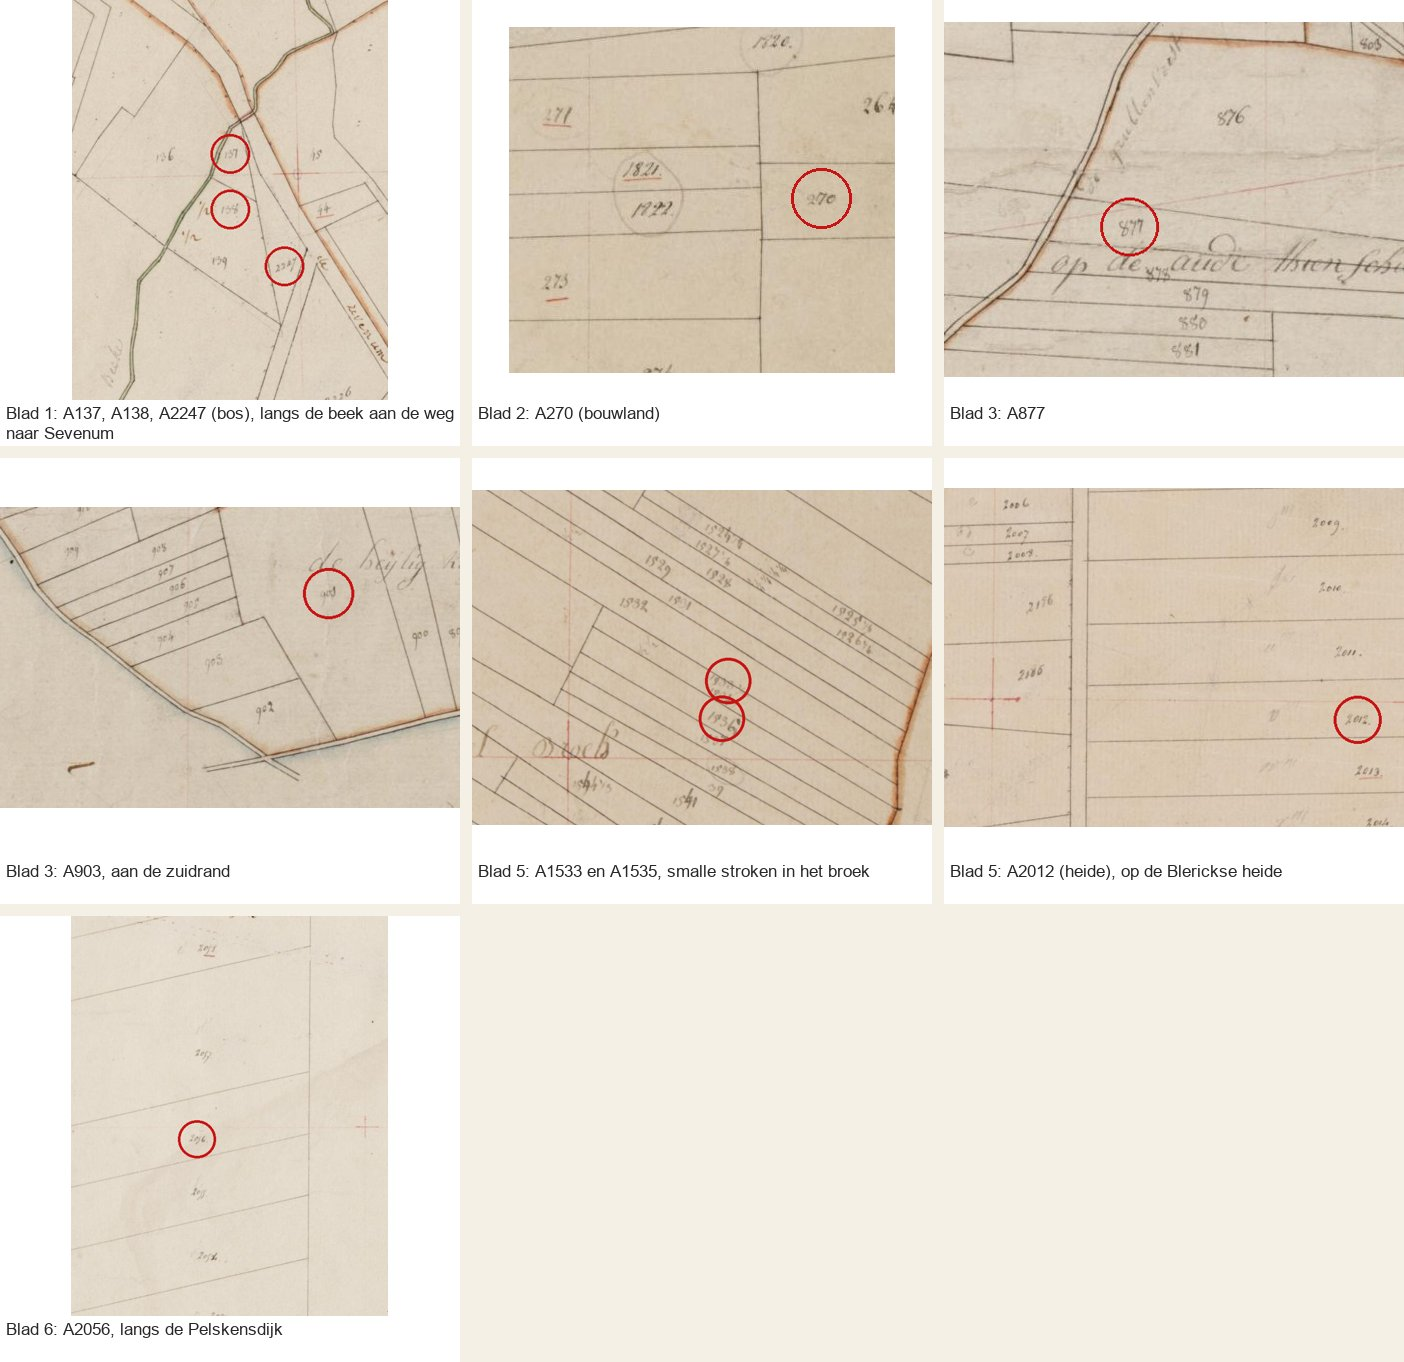
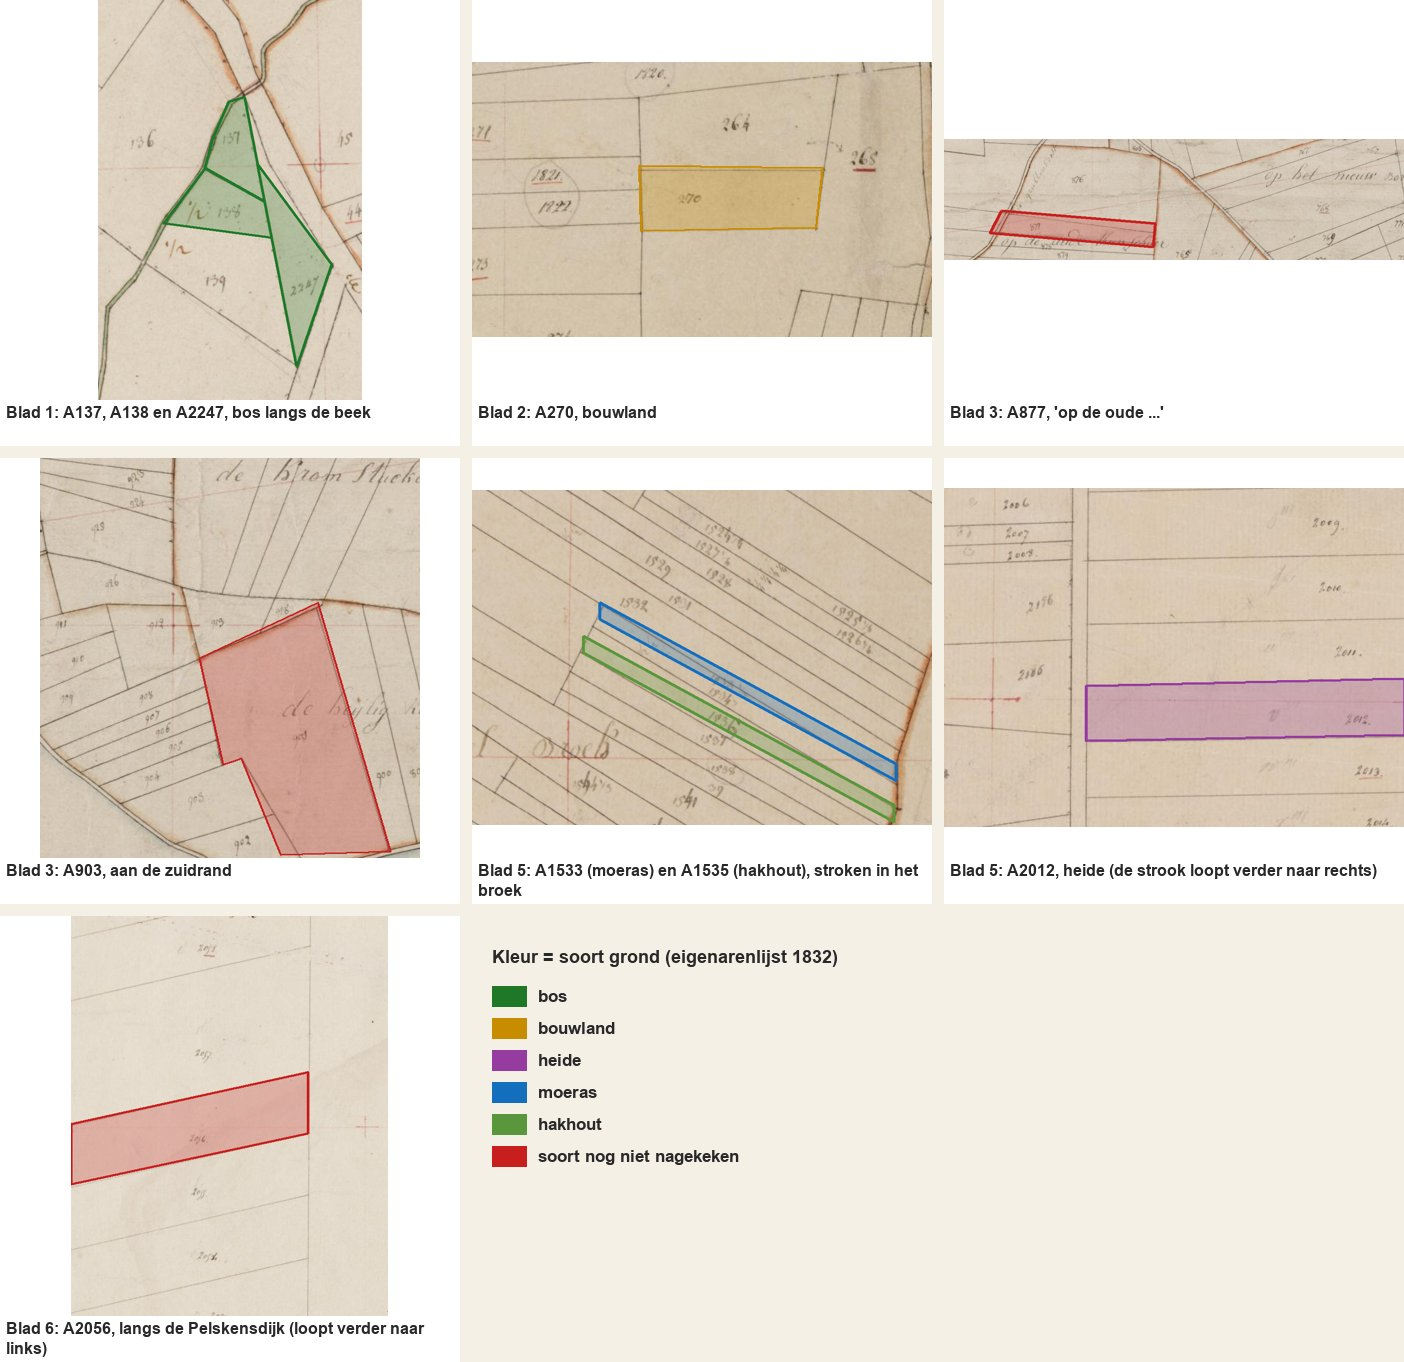
Plekken: Alberts percelen omrand en op het verzamelplan, oppervlaktes en herkomst van zijn bezit
Claude-Session: https://claude.ai/code/session_01WjRCu7jGXPbxkQocZpm5E2

diff --git a/plekken.html b/plekken.html
@@ -472,12 +472,22 @@
           Godfried Wijhers en herbergier Leonard Spee. Het oude huis bestaat niet meer: het huidige pand Kloosterstraat 10 (met
           winkels) is volgens de BAG in 1956 gebouwd. De Kloosterstraat, vroeger de Koestraat naar het veer, werd na de oorlog
           grotendeels opnieuw opgebouwd; de Markt van toen is het huidige Antoniusplein.</p>
-          <p><strong>Waar lag zijn grond?</strong> Een deel van Alberts losse percelen is op de kadasterkaarten terug te vinden (zie
-          de uitsneden hieronder). Ze lagen over het hele dorp verspreid: bos langs de beek aan de weg naar Sevenum (A137, A138 en
-          A2247), bouwland (A270), stukken op blad 3 (A877, en A903 aan de zuidrand), twee smalle stroken in het broek, het natte
-          lage land (A1533 en A1535), een strook op de Blerickse heide (A2012) en een strook langs de Pelskensdijk (A2056).
-          Perceel A2323 staat niet op de kaart van 1832: dat nummer is later gegeven, toen percelen werden gesplitst of
-          vernummerd.</p>
+          <p><strong>Waar lag zijn grond?</strong> In de eigenarenlijst van 1832 staan bij Albert (artikel 373) achttien
+          percelen (huis en erf meegeteld), samen ongeveer 6,8 hectare. De meeste zijn op de kaarten terug te vinden (zie het overzicht en de uitsneden
+          hieronder). Ze lagen over het hele dorp verspreid: bos langs de beek bij de grens met Grubbenvorst (A137, A138 en
+          A2247), bouwland in de strook langs de Maas (A270), bouwland ten westen van het dorp (A877, en A903 aan de zuidrand),
+          twee smalle stroken moeras en hakhout in het broek, het natte lage land (A1533 en A1535), en lange stroken op de
+          Blerickse heide (A2012, bijna een hectare) en langs de Pelskensdijk (A2056, ook bijna een hectare). Het grootste stuk,
+          A2323 (1,8 hectare), heb ik op de kaart nog niet gevonden.</p>
+          <p><strong>Was hij rijk?</strong> Niet echt. Bijna zeven hectare klinkt veel, maar meer dan de helft was heide,
+          zandgrond en moeras: goedkope grond die weinig opbracht. Die lange, smalle stroken naast die van andere dorpelingen
+          zijn typisch voor verdeelde gemeenschapsgrond. Echt goede grond (huis, tuin, bouwland en wat bos) had hij ruim twee
+          hectare. Dat past bij een dorpssmid die er een paar akkers en wat vee bij had. Waar het bezit vandaan kwam, staat nergens
+          online. Twee aanwijzingen: zijn moeder Theodora Sanders liet bij haar dood in 1818 een nalatenschap na waarover
+          belasting betaald moest worden (memorie van successie), en zijn stiefvader Wilhelmus Linches, met wie zij in 1790
+          hertrouwde, was hoefsmid. Albert leerde het vak dus waarschijnlijk van hem, en nam misschien ook zijn smidse
+          over. Of hij de grond kocht of erfde, kan alleen uit de memories van successie en de notariële akten blijken; die staan
+          op de <a href="onderzoek.html">onderzoekslijst</a>.</p>
           <p><strong>En Alexander?</strong> <a href="stamboom.html?persoon=P0005" title="Alexander Hillen in de stamboom">Alexander</a>
           trouwde in 1853 met <a href="stamboom.html?persoon=P0113" title="Petronella Bollen in de stamboom">Petronella Bollen</a>, dochter
           van blauwverver (stoffenverver) Pieter Andries Bollen en winkelierster Gertrudis Rutten. Hun huis met blauwververij was
@@ -494,8 +504,12 @@
               <figcaption><strong>Eigenarenlijst 1832.</strong> "480 · Hillen · Albert · smid · 373 · Huis". Het nummer is later doorgehaald toen het perceel werd vernummerd.</figcaption>
             </figure>
             <figure>
+              <img src="assets/images/kaarten/blerick_1832_percelen_overzicht.jpg" alt="Verzamelplan van Blerick (sectie A, gemeente Maasbree, 1832) met het huis van Albert Hillen in het dorp aan de Maas en zijn losse percelen gekleurd: bos bij de grens met Grubbenvorst, stroken in het broek en op de heide in het westen, en stukken ten westen van het dorp.">
+              <figcaption><strong>Waar Alberts grond lag, op het verzamelplan van Maasbree (1832).</strong> Rode stip: zijn huis in het dorp. De percelen zijn van de bladen van het minuutplan op dit overzichtsplan gezet; de ligging is bij benadering (een paar honderd meter), de vorm is overgetrokken. Kleur = soort grond. Bron: RCE, verzamelplan MIN11056VK1.</figcaption>
+            </figure>
+            <figure>
               <img src="assets/images/kaarten/blerick_1832_percelen_albert_hillen.jpg" alt="Zeven uitsneden van de kadasterkaarten van Blerick, 1832, met de losse percelen van Albert Hillen rood omcirkeld: bos aan de weg naar Sevenum, bouwland, stroken in het broek, op de heide en langs de Pelskensdijk.">
-              <figcaption><strong>Alberts grond, minuutplan 1832, sectie A, bladen 1–6.</strong> Rood omcirkeld: percelen van artikel 373 (Albert Hillen). De soort grond staat erbij waar die in de eigenarenlijst is gecontroleerd.</figcaption>
+              <figcaption><strong>De percelen van dichtbij, minuutplan 1832, sectie A, bladen 1–6.</strong> Omrand: percelen van artikel 373 (Albert Hillen), overgetrokken van de kaart. Kleur = soort grond, waar die in de eigenarenlijst is gecontroleerd.</figcaption>
             </figure>
           </div>
           <p class="bron">Bron: Rijksdienst voor het Cultureel Erfgoed, beeldbank, <a href="https://beeldbank.cultureelerfgoed.nl/rce-mediabank/?q=oat11056A*" target="_blank" rel="noopener">oorspronkelijk aanwijzende tafels Maasbree sectie A</a>

diff --git a/onderzoek.html b/onderzoek.html
@@ -48,6 +48,7 @@
     <summary><h2>Regionaal Historisch Centrum Limburg (RHCL), Maastricht</h2></summary>
     <div class="folder-body">
       <ul class="checklist">
+        <li><input type="checkbox"><span>★ Herkomst grondbezit smid Albert en bezit van Caspar: memories van successie Maasbree (07.D03) van Theodora Sanders 1818 (inv. 451) en Albert 1870 (inv. 469); boedel Caspar 1789 in de schepenbank Blerick; notariële akten Venlo/Horst 1810–1840; kadastrale leggers artikel 373.</span></li>
         <li><input type="checkbox"><span><span class="priority">★</span> <strong>Archief Kruisheren Roermond, inv. nr. 114</strong> (akte 25-4-1454): foto van het <strong>zegel van Gaedert (Godart) Hillen</strong>. Een van de oudste bewaarde Hillen-zegels; laat het wapen in de 15e eeuw zien.</span></li>
         <li><input type="checkbox"><span><span class="priority">★</span> <strong>Archief Kruisheren Roermond, inv. nr. 117</strong> (akte 2-3-1465): foto van het <strong>zegel van Johan Hillen</strong> (en het fragment van Godarts zegel).</span></li>
         <li><input type="checkbox"><span>Archief Kruisheren Roermond, inv. nr. 96 (14-7-1460): fragment van het zegel van Johan Hillen.</span></li>

diff --git a/onderzoek/op-te-vragen.md b/onderzoek/op-te-vragen.md
@@ -10,6 +10,11 @@ Legenda: ★ = kan een open vraag beslissen.
 ## 1. Regionaal Historisch Centrum Limburg (RHCL), Maastricht
 - [ ] ★ **Archief Kruisheren Roermond, inv. nr. 114** (akte 25-4-1454): foto van het **zegel van Gaedert (Godart) Hillen**. Een van
       de oudste bewaarde Hillen-zegels; laat het wapen in de 15e eeuw zien.
+- [ ] ★ **Herkomst grondbezit smid Albert (P0004) en bezit van Caspar (P0003).** Memories van successie Maasbree,
+      toegang 07.D03: Dorothea (Theodora) Sanders, overl. Blerick 16-2-1818, inv. 451 (aangifte belastbaar: ja; kantoor Horst);
+      Alardus Hillen, overl. 20-8-1870, inv. 469, record 306; Lucia Grubben (overl. 1862) nog zoeken. Daarnaast: boedel na
+      Caspar Hillen (overl. 4-6-1789) in de schepenbank Blerick; notariële akten Venlo/Horst 1810–1840 (aankopen door Albert);
+      kadastrale leggers Maasbree sectie A, artikel 373 (mutaties na 1832). Perceel A2323 (1,80 ha) nog op de kaart zoeken.
 - [ ] ★ **Archief Kruisheren Roermond, inv. nr. 117** (akte 2-3-1465): foto van het **zegel van Johan Hillen** (en het fragment van
       Godarts zegel).
 - [ ] Archief Kruisheren Roermond, inv. nr. 96 (14-7-1460): fragment van het zegel van Johan Hillen.
